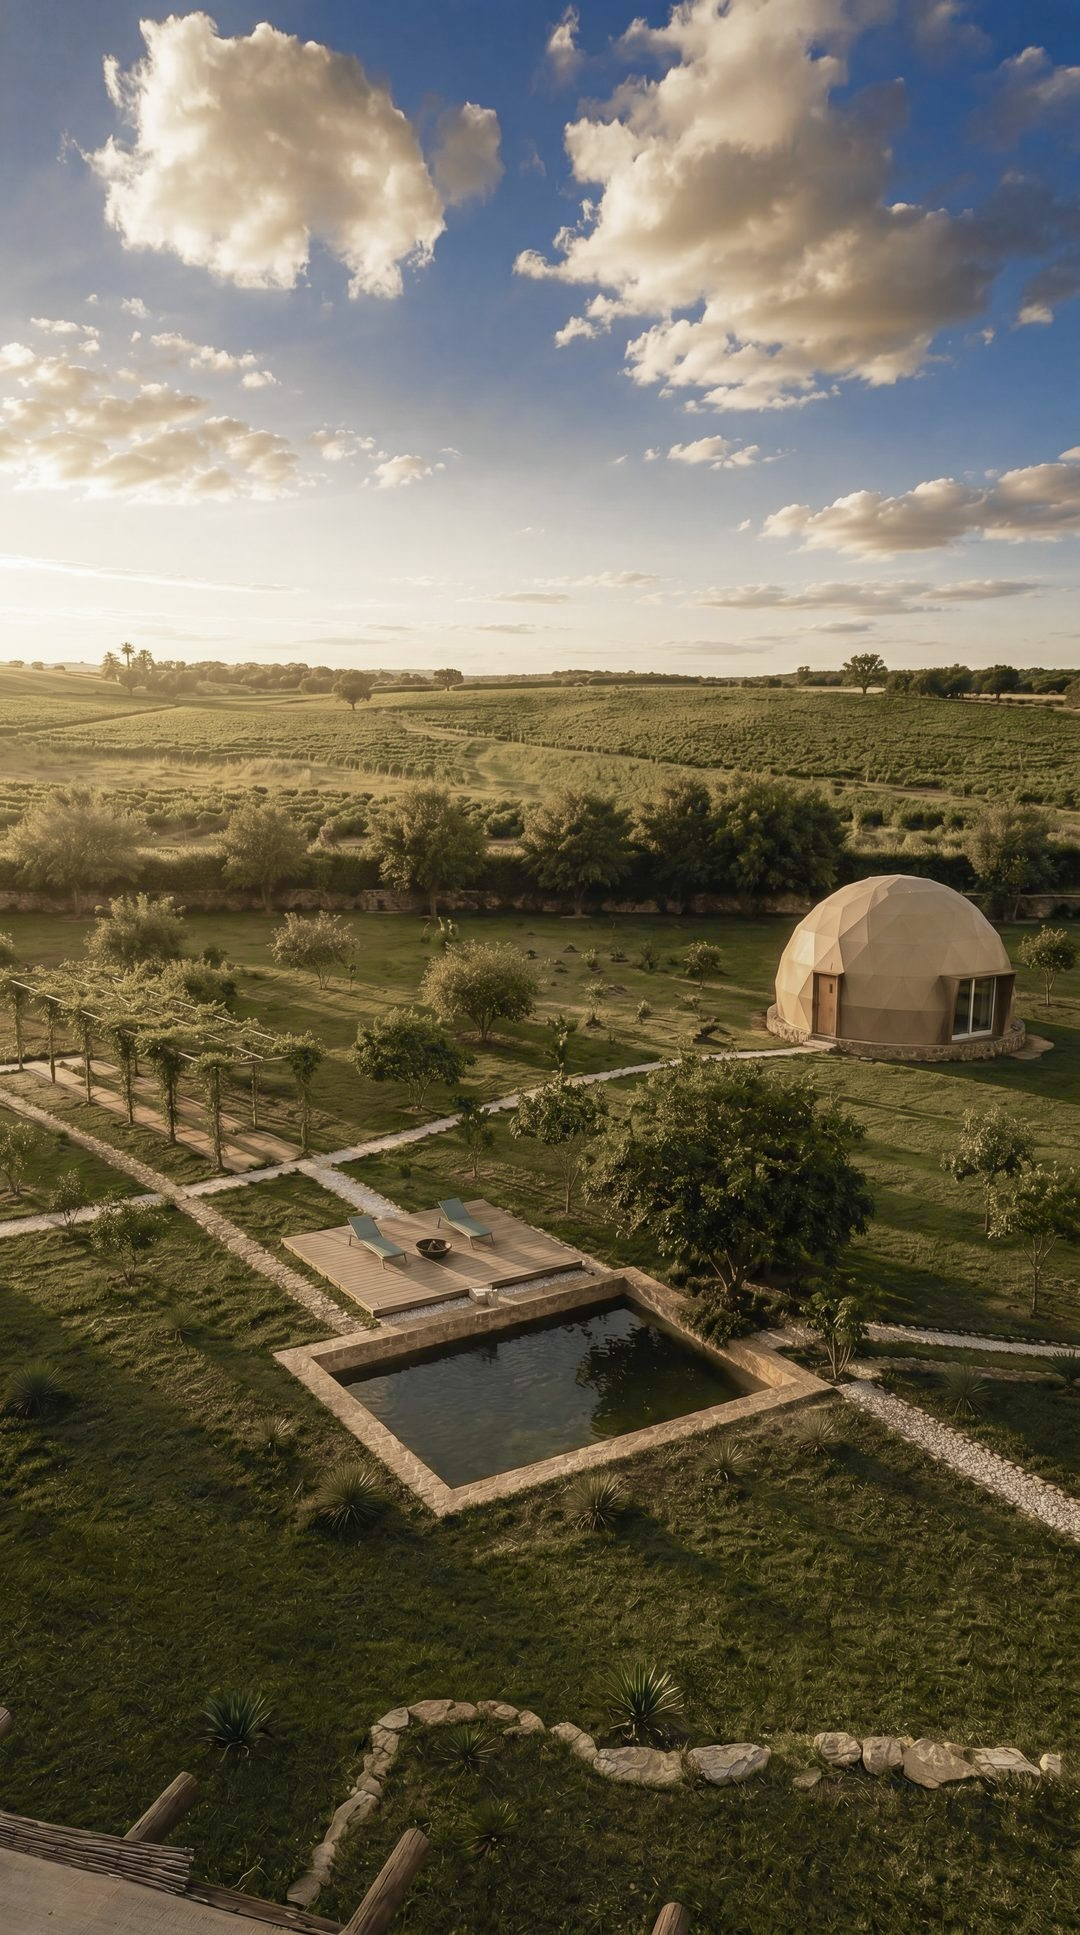
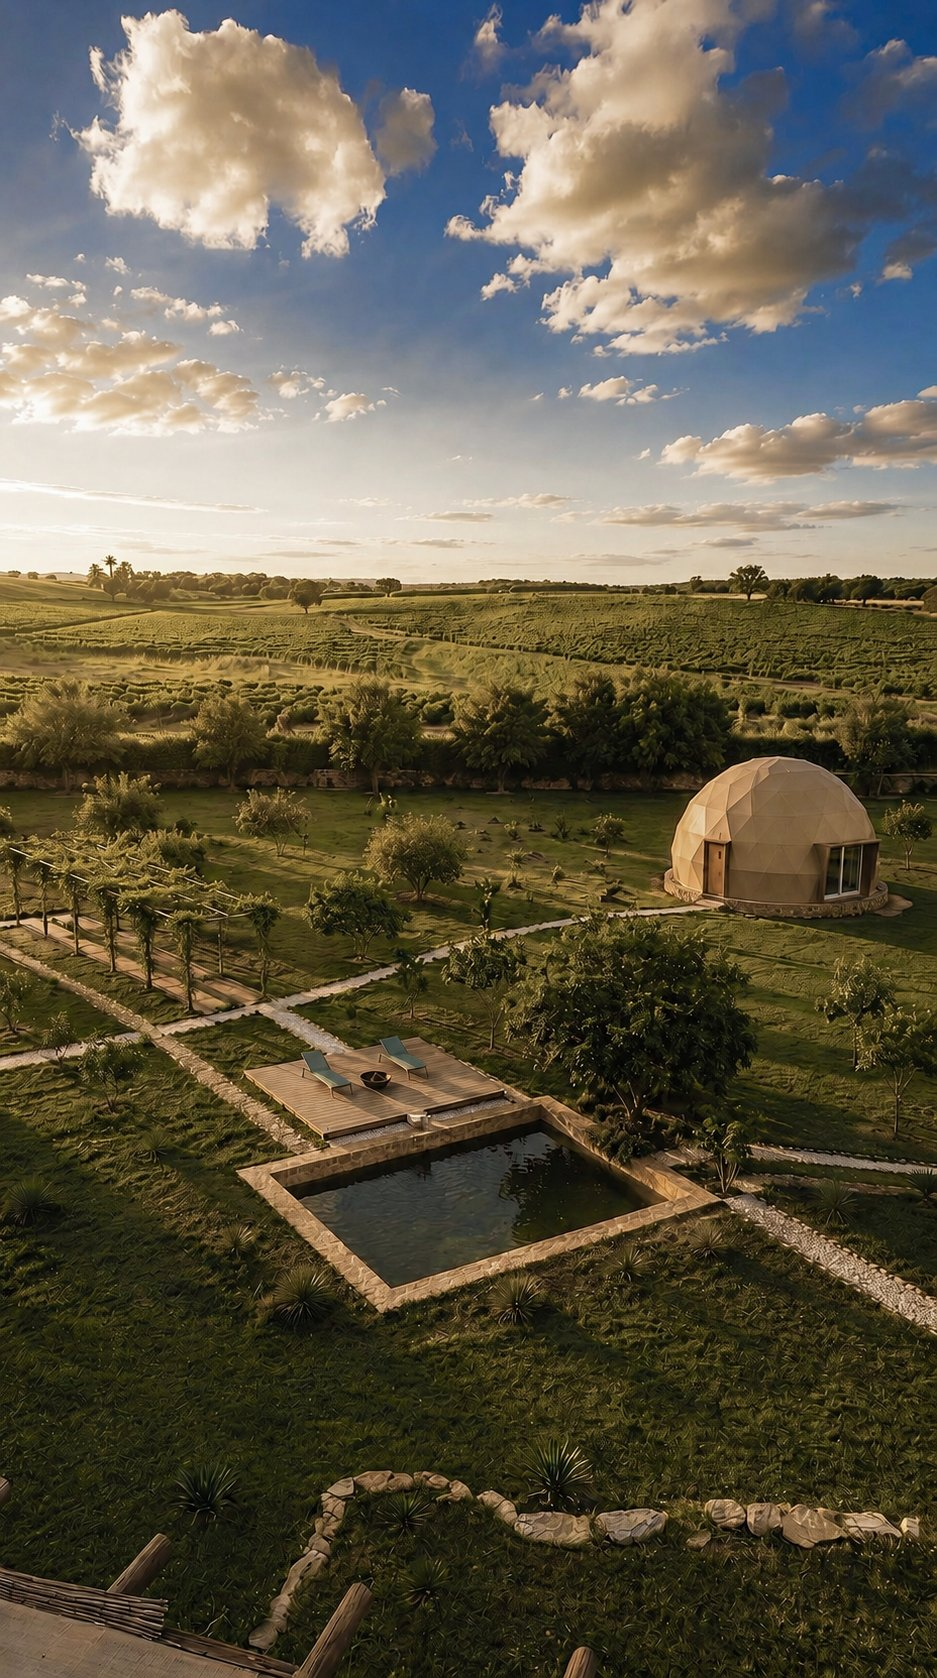
Mobile hero fix

diff --git a/index.html b/index.html
@@ -1266,6 +1266,10 @@
 </div>
 
 <script>
+    // Always land at top on load/refresh
+    if ('scrollRestoration' in history) history.scrollRestoration = 'manual';
+    window.scrollTo(0, 0);
+
     // Disable right-click and drag on images
     document.addEventListener('contextmenu', e => { if (e.target.tagName === 'IMG') e.preventDefault(); });
     document.addEventListener('dragstart', e => { if (e.target.tagName === 'IMG') e.preventDefault(); });